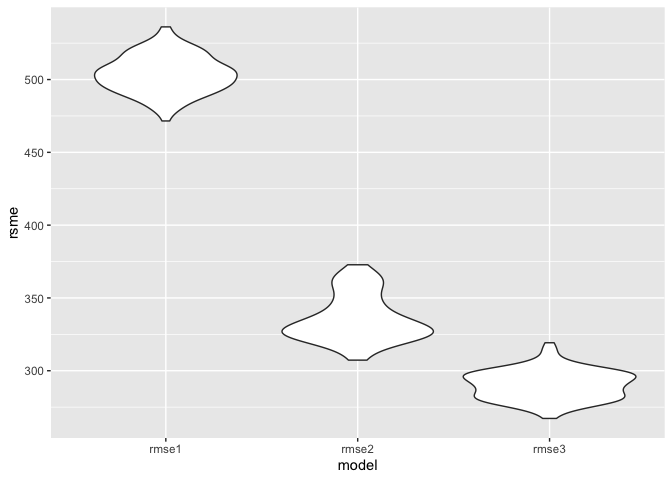
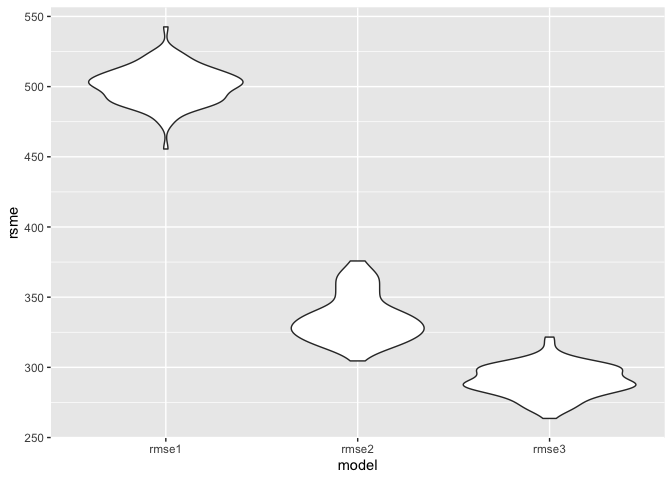
problem 3 infrastructure

diff --git a/p8105_aw3251_hw6.md b/p8105_aw3251_hw6.md
@@ -398,16 +398,16 @@ cv_df
     ## # A tibble: 100 x 9
     ##    train             test             .id   fit1   fit2  fit3  rmse1 rmse2 rmse3
     ##    <list>            <list>           <chr> <list> <lis> <lis> <dbl> <dbl> <dbl>
-    ##  1 <tibble [3,473 ×… <tibble [869 × … 001   <lm>   <lm>  <lm>   499.  332.  282.
-    ##  2 <tibble [3,473 ×… <tibble [869 × … 002   <lm>   <lm>  <lm>   502.  329.  280.
-    ##  3 <tibble [3,473 ×… <tibble [869 × … 003   <lm>   <lm>  <lm>   511.  349.  299.
-    ##  4 <tibble [3,473 ×… <tibble [869 × … 004   <lm>   <lm>  <lm>   482.  323.  280.
-    ##  5 <tibble [3,473 ×… <tibble [869 × … 005   <lm>   <lm>  <lm>   488.  317.  271.
-    ##  6 <tibble [3,473 ×… <tibble [869 × … 006   <lm>   <lm>  <lm>   497.  341.  295.
-    ##  7 <tibble [3,473 ×… <tibble [869 × … 007   <lm>   <lm>  <lm>   496.  320.  267.
-    ##  8 <tibble [3,473 ×… <tibble [869 × … 008   <lm>   <lm>  <lm>   504.  328.  285.
-    ##  9 <tibble [3,473 ×… <tibble [869 × … 009   <lm>   <lm>  <lm>   510.  324.  295.
-    ## 10 <tibble [3,473 ×… <tibble [869 × … 010   <lm>   <lm>  <lm>   498.  333.  290.
+    ##  1 <tibble [3,473 ×… <tibble [869 × … 001   <lm>   <lm>  <lm>   502.  325.  293.
+    ##  2 <tibble [3,473 ×… <tibble [869 × … 002   <lm>   <lm>  <lm>   506.  363.  311.
+    ##  3 <tibble [3,473 ×… <tibble [869 × … 003   <lm>   <lm>  <lm>   502.  329.  289.
+    ##  4 <tibble [3,473 ×… <tibble [869 × … 004   <lm>   <lm>  <lm>   497.  318.  281.
+    ##  5 <tibble [3,473 ×… <tibble [869 × … 005   <lm>   <lm>  <lm>   494.  327.  285.
+    ##  6 <tibble [3,473 ×… <tibble [869 × … 006   <lm>   <lm>  <lm>   511.  345.  296.
+    ##  7 <tibble [3,473 ×… <tibble [869 × … 007   <lm>   <lm>  <lm>   486.  326.  284.
+    ##  8 <tibble [3,473 ×… <tibble [869 × … 008   <lm>   <lm>  <lm>   487.  312.  269.
+    ##  9 <tibble [3,473 ×… <tibble [869 × … 009   <lm>   <lm>  <lm>   508.  350.  305.
+    ## 10 <tibble [3,473 ×… <tibble [869 × … 010   <lm>   <lm>  <lm>   473.  355.  295.
     ## # … with 90 more rows
 
 ``` r
@@ -429,3 +429,35 @@ cv_comparison
 The RSME for my model, RMSE1, are far higher than for the other two
 models. The model using head circumference, length, and sex has the
 lowest RSME.
+
+## Problem 3
+
+Loading data.
+
+``` r
+weather_df = 
+  rnoaa::meteo_pull_monitors(
+    c("USW00094728"),
+    var = c("PRCP", "TMIN", "TMAX"), 
+    date_min = "2017-01-01",
+    date_max = "2017-12-31") %>%
+  mutate(
+    name = recode(id, USW00094728 = "CentralPark_NY"),
+    tmin = tmin / 10,
+    tmax = tmax / 10) %>%
+  select(name, id, everything())
+```
+
+    ## Registered S3 method overwritten by 'hoardr':
+    ##   method           from
+    ##   print.cache_info httr
+
+    ## using cached file: /Users/amandawarnock/Library/Caches/R/noaa_ghcnd/USW00094728.dly
+
+    ## date created (size, mb): 2020-10-04 15:04:55 (7.522)
+
+    ## file min/max dates: 1869-01-01 / 2020-10-31
+
+``` r
+set.seed(1)
+```
